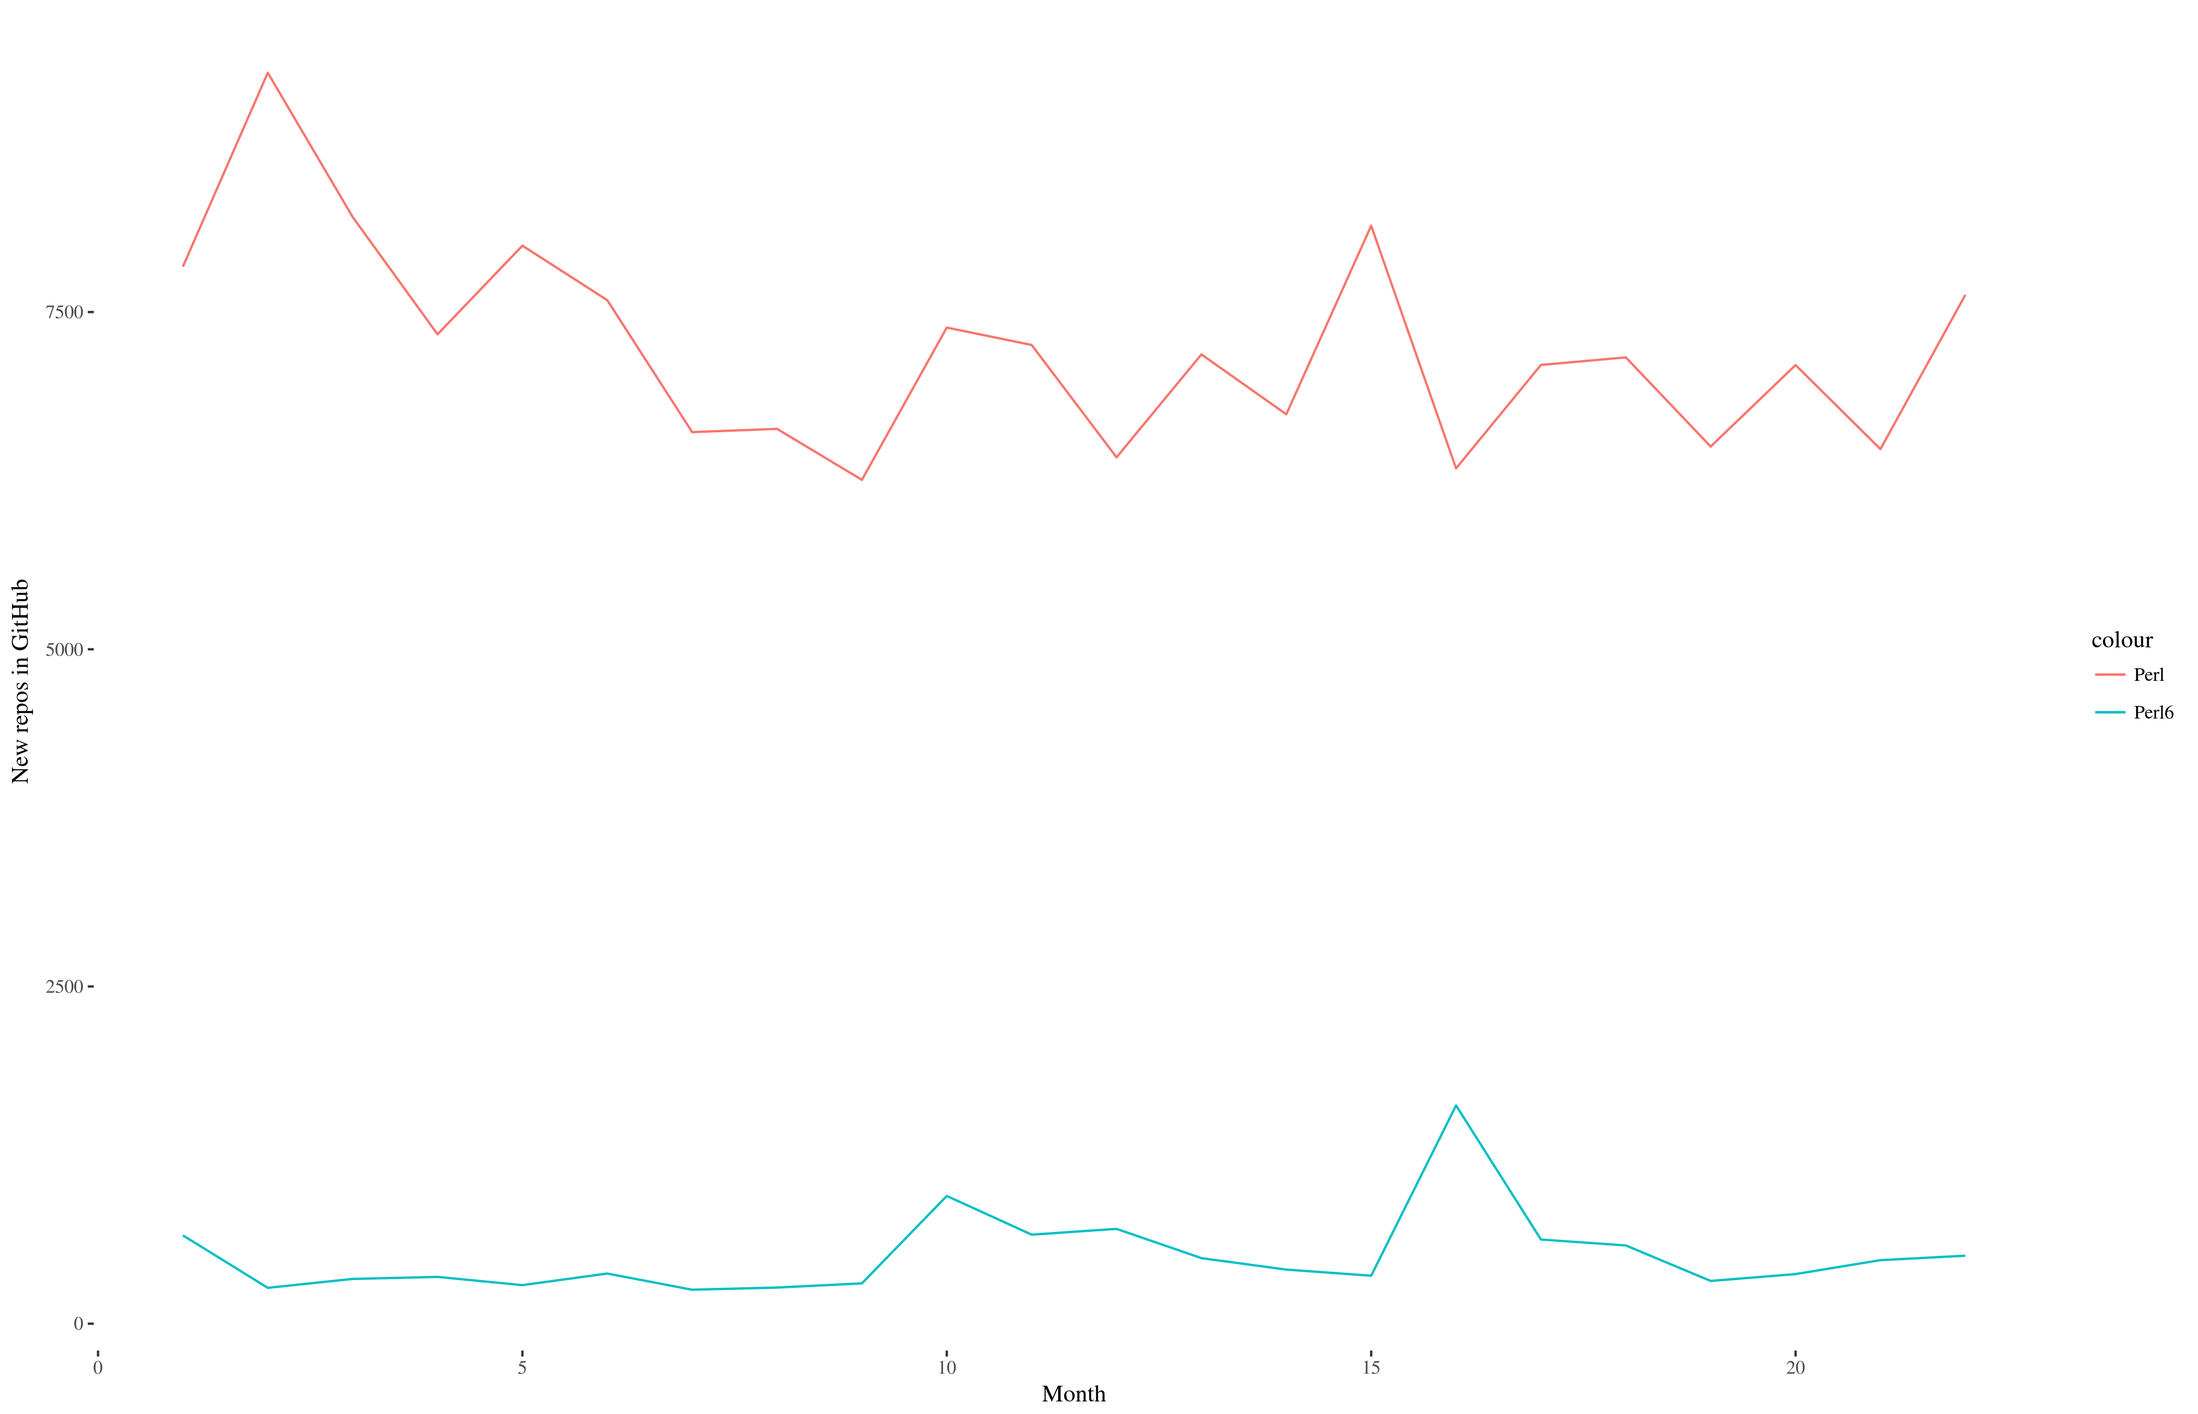
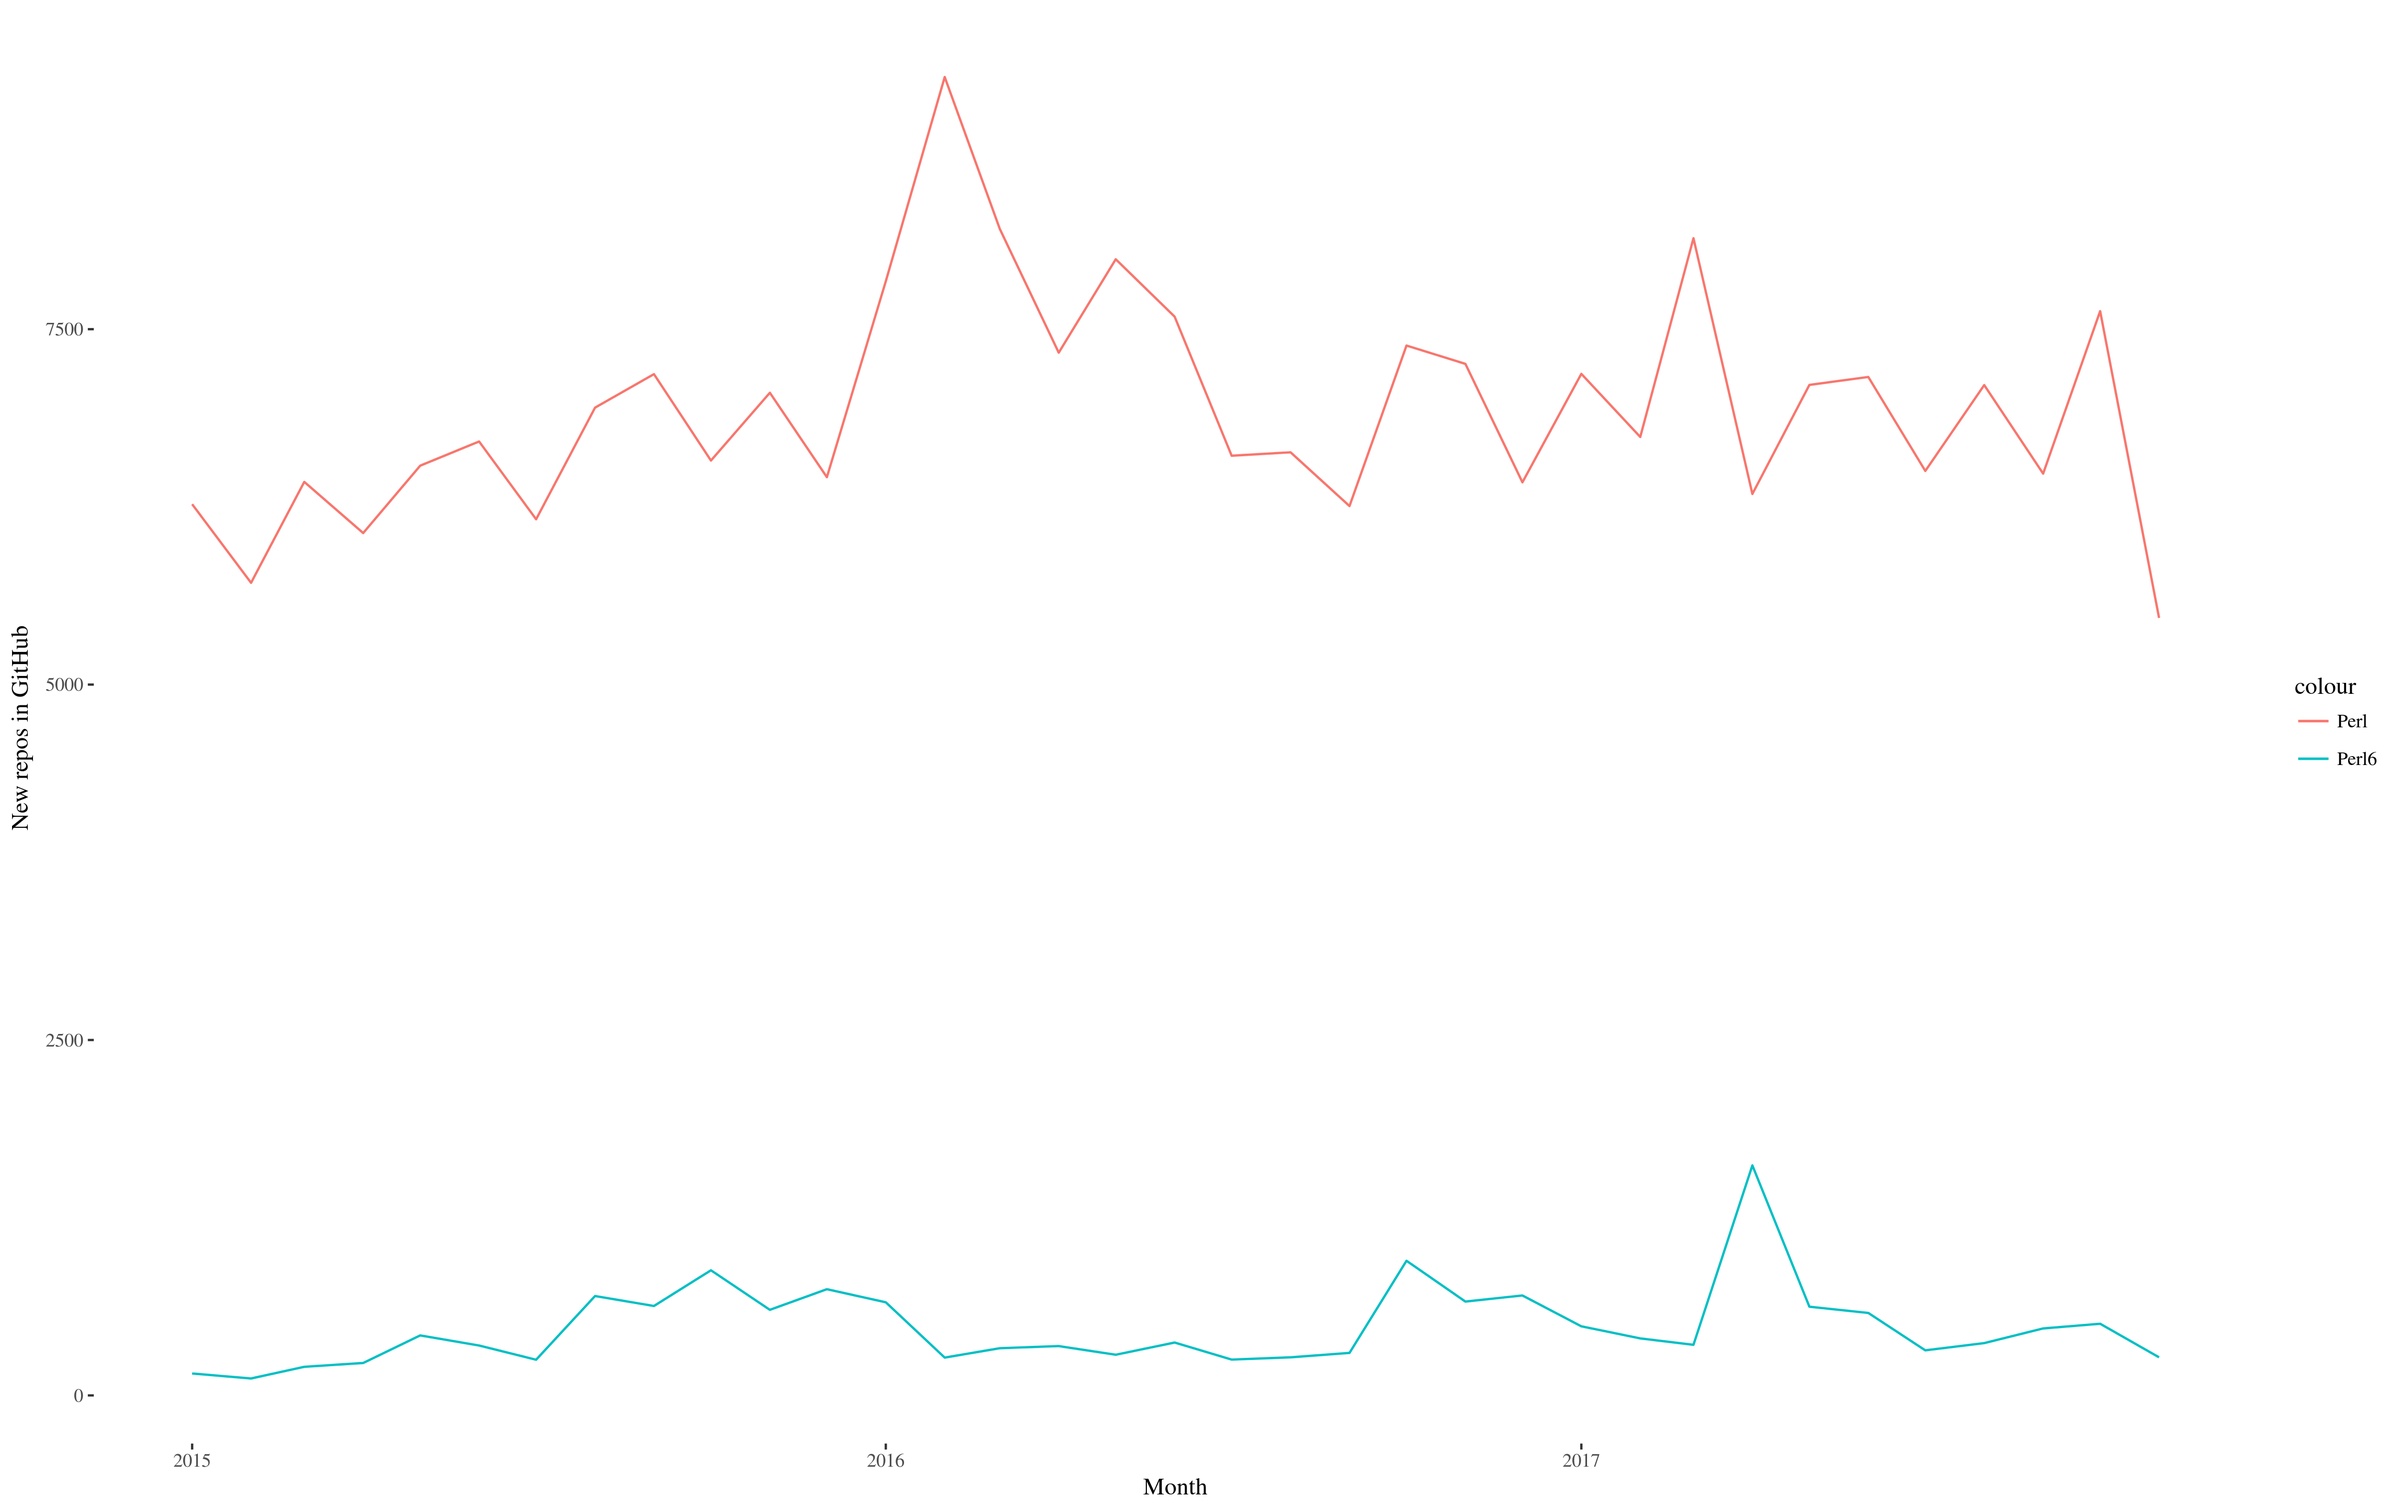
Adds new repos to preso

diff --git a/docs/lpw17/index.html b/docs/lpw17/index.html
@@ -109,7 +109,8 @@ alt='6'>
 alt='first'>
 	    <h1>They came first</h1>
 
-	    <aside class='notes'>They existed, they were there</aside>
+	    <aside class='notes'>They existed, they were there. More
+	  on this later</aside>
 	  </section>
 
 	  <section
@@ -147,6 +148,12 @@ alt='1'>
 	language to learn. One could argue it would be hard even to
 	      use them as a second language</aside>
 	  </section>
+
+	  <section>
+	    <img src='img/perl_new_repos.png' alt='new repos'>
+	  </section>
+
+	  
 	</section>
 
 	<section>
